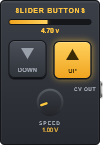
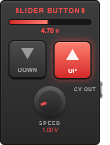
Recolor to neutral gray with red accents and rebuild the Speed knob in CSS
- Replace the blue-tinted grays and yellow accents with neutral grays and red
- The Speed knob used a vertical filmstrip, but MOD's film widget shifts a
  horizontal one, so only the first frame ever showed. Use mod-widget-rotation
  instead: MOD rotates a CSS indicator over a still base, no image needed
- Remove knob.png and tools/gen-knob.ps1, which are no longer used
- Regenerate the store screenshot and thumbnail

diff --git a/slider-buttons.lv2/modgui/stylesheet-slider-buttons.css b/slider-buttons.lv2/modgui/stylesheet-slider-buttons.css
@@ -3,10 +3,10 @@
     width: 200px;
     height: 290px;
     border-radius: 10px;
-    background: linear-gradient(180deg, #3b3f47 0%, #272a30 100%);
-    box-shadow: inset 0 0 0 2px #14161a, inset 0 2px 0 3px rgba(255, 255, 255, 0.07);
+    background: linear-gradient(180deg, #3d3d3d 0%, #282828 100%);
+    box-shadow: inset 0 0 0 2px #151515, inset 0 2px 0 3px rgba(255, 255, 255, 0.07);
     font-family: Arial, Helvetica, sans-serif;
-    color: #d8dbe0;
+    color: #dddddd;
 }
 
 .mod-pedal.slider-buttons{{{cns}}} .drag-handle {
@@ -28,7 +28,7 @@
     font-size: 13px;
     font-weight: bold;
     letter-spacing: 2px;
-    color: #ffc440;
+    color: #ff4d4d;
 }
 
 /* Output level meter, filled by script-slider-buttons.js from the Value port. */
@@ -40,15 +40,15 @@
     height: 12px;
     box-sizing: border-box;
     border-radius: 6px;
-    border: 2px solid #14161a;
-    background: #15171b;
+    border: 2px solid #151515;
+    background: #171717;
     overflow: hidden;
 }
 .mod-pedal.slider-buttons{{{cns}}} .meter-fill {
     width: 0;
     height: 100%;
-    background: linear-gradient(90deg, #f0a420 0%, #ffd25e 100%);
-    box-shadow: 0 0 8px rgba(255, 196, 64, 0.6);
+    background: linear-gradient(90deg, #d42a2a 0%, #ff7f70 100%);
+    box-shadow: 0 0 8px rgba(255, 77, 77, 0.6);
 }
 .mod-pedal.slider-buttons{{{cns}}} .out-value {
     position: absolute;
@@ -58,7 +58,7 @@
     text-align: center;
     font-size: 13px;
     font-weight: bold;
-    color: #ffc440;
+    color: #ff4d4d;
 }
 
 /* UP / DOWN buttons. The switch widget toggles the .on / .off class on these. */
@@ -69,9 +69,9 @@
     height: 76px;
     box-sizing: border-box;
     border-radius: 12px;
-    border: 2px solid #14161a;
-    background: linear-gradient(180deg, #4a4f58 0%, #30343b 100%);
-    box-shadow: 0 3px 0 #101216, inset 0 1px 0 rgba(255, 255, 255, 0.14);
+    border: 2px solid #151515;
+    background: linear-gradient(180deg, #4b4b4b 0%, #303030 100%);
+    box-shadow: 0 3px 0 #101010, inset 0 1px 0 rgba(255, 255, 255, 0.14);
     cursor: pointer;
     text-align: center;
     z-index: 40;
@@ -87,7 +87,7 @@
     font-size: 11px;
     font-weight: bold;
     letter-spacing: 1px;
-    color: #9aa0aa;
+    color: #9c9c9c;
 }
 
 .mod-pedal.slider-buttons{{{cns}}} .btn .arrow {
@@ -100,29 +100,60 @@
     border-left: 13px solid transparent;
     border-right: 13px solid transparent;
 }
-.mod-pedal.slider-buttons{{{cns}}} .btn.up .arrow { border-bottom: 22px solid #9aa0aa; }
-.mod-pedal.slider-buttons{{{cns}}} .btn.down .arrow { border-top: 22px solid #9aa0aa; }
+.mod-pedal.slider-buttons{{{cns}}} .btn.up .arrow { border-bottom: 22px solid #9c9c9c; }
+.mod-pedal.slider-buttons{{{cns}}} .btn.down .arrow { border-top: 22px solid #9c9c9c; }
 
 .mod-pedal.slider-buttons{{{cns}}} .btn.on {
-    background: linear-gradient(180deg, #ffd25e 0%, #f0a420 100%);
-    box-shadow: 0 1px 0 #101216, 0 0 14px rgba(255, 196, 64, 0.65), inset 0 1px 0 rgba(255, 255, 255, 0.45);
+    background: linear-gradient(180deg, #ff7f70 0%, #d42a2a 100%);
+    box-shadow: 0 1px 0 #101010, 0 0 14px rgba(255, 77, 77, 0.65), inset 0 1px 0 rgba(255, 255, 255, 0.45);
     transform: translateY(2px);
 }
-.mod-pedal.slider-buttons{{{cns}}} .btn.on span { color: #3a2a05; }
-.mod-pedal.slider-buttons{{{cns}}} .btn.up.on .arrow { border-bottom-color: #3a2a05; }
-.mod-pedal.slider-buttons{{{cns}}} .btn.down.on .arrow { border-top-color: #3a2a05; }
+.mod-pedal.slider-buttons{{{cns}}} .btn.on span { color: #fff3f1; }
+.mod-pedal.slider-buttons{{{cns}}} .btn.up.on .arrow { border-bottom-color: #fff3f1; }
+.mod-pedal.slider-buttons{{{cns}}} .btn.down.on .arrow { border-top-color: #fff3f1; }
 
-/* Speed knob: a 64 frame filmstrip of 64x64 frames, driven by the film widget. */
+/* Speed knob. MOD rotates the .knob element itself (mod-widget-rotation), so it only holds the indicator;
+   the lit base underneath stays still. */
+.mod-pedal.slider-buttons{{{cns}}} .knob-base {
+    position: absolute;
+    left: 68px;
+    top: 172px;
+    width: 64px;
+    height: 64px;
+    border-radius: 50%;
+    background: linear-gradient(180deg, #626262 0%, #1e1e1e 100%);
+    box-shadow: 0 2px 5px rgba(0, 0, 0, 0.55);
+    z-index: 38;
+}
+.mod-pedal.slider-buttons{{{cns}}} .knob-base::after {
+    content: "";
+    position: absolute;
+    left: 9px;
+    top: 9px;
+    width: 46px;
+    height: 46px;
+    border-radius: 50%;
+    background: linear-gradient(180deg, #3e3e3e 0%, #242424 100%);
+}
 .mod-pedal.slider-buttons{{{cns}}} .knob {
     position: absolute;
     left: 68px;
     top: 172px;
     width: 64px;
     height: 64px;
-    background-image: url(/resources/knob.png{{{ns}}});
-    background-repeat: no-repeat;
     cursor: pointer;
     z-index: 40;
+}
+.mod-pedal.slider-buttons{{{cns}}} .knob::after {
+    content: "";
+    position: absolute;
+    left: 50%;
+    top: 13px;
+    width: 5px;
+    height: 11px;
+    margin-left: -2.5px;
+    border-radius: 3px;
+    background: #ff4d4d;
 }
 
 .mod-pedal.slider-buttons{{{cns}}} .knob-label {
@@ -134,7 +165,7 @@
     font-size: 10px;
     font-weight: bold;
     letter-spacing: 2px;
-    color: #9aa0aa;
+    color: #9c9c9c;
 }
 
 .mod-pedal.slider-buttons{{{cns}}} .knob-value {
@@ -144,7 +175,7 @@
     width: 80px;
     text-align: center;
     font-size: 11px;
-    color: #ffc440;
+    color: #ff4d4d;
     z-index: 40;
 }
 
@@ -156,7 +187,7 @@
     font-size: 10px;
     font-weight: bold;
     letter-spacing: 1px;
-    color: #9aa0aa;
+    color: #9c9c9c;
 }
 
 /* MOD paints its own connector artwork on the port element; this only places its container on the right edge. */

diff --git a/slider-buttons.lv2/modgui/icon-slider-buttons.html b/slider-buttons.lv2/modgui/icon-slider-buttons.html
@@ -15,7 +15,8 @@
         <span>DOWN</span>
     </div>
 
-    <div class="knob" mod-role="input-control-port" mod-widget="film" mod-port-symbol="Speed" title="Speed (volts per second)"></div>
+    <div class="knob-base"></div>
+    <div class="knob" mod-role="input-control-port" mod-widget="film" mod-widget-rotation="270" mod-port-symbol="Speed" title="Speed (volts per second)"></div>
     <div class="knob-label">SPEED</div>
     <div class="knob-value" mod-role="input-control-value" mod-port-symbol="Speed"></div>
 

diff --git a/README.md b/README.md
@@ -44,7 +44,7 @@ sudo make install   # installs to /usr/local/lib/lv2
 
 ## Pedal GUI
 
-`slider-buttons.lv2/modgui/` holds the plugin's MOD pedal GUI (HTML template, stylesheet, a 64 frame knob filmstrip, screenshot and thumbnail). The artwork is original to this project. To redraw the knob filmstrip, run `tools/gen-knob.ps1` from PowerShell on Windows.
+`slider-buttons.lv2/modgui/` holds the plugin's MOD pedal GUI (HTML template, stylesheet, a level-meter script, screenshot and thumbnail). The artwork is original to this project and drawn entirely in CSS.
 
 ## License
 
